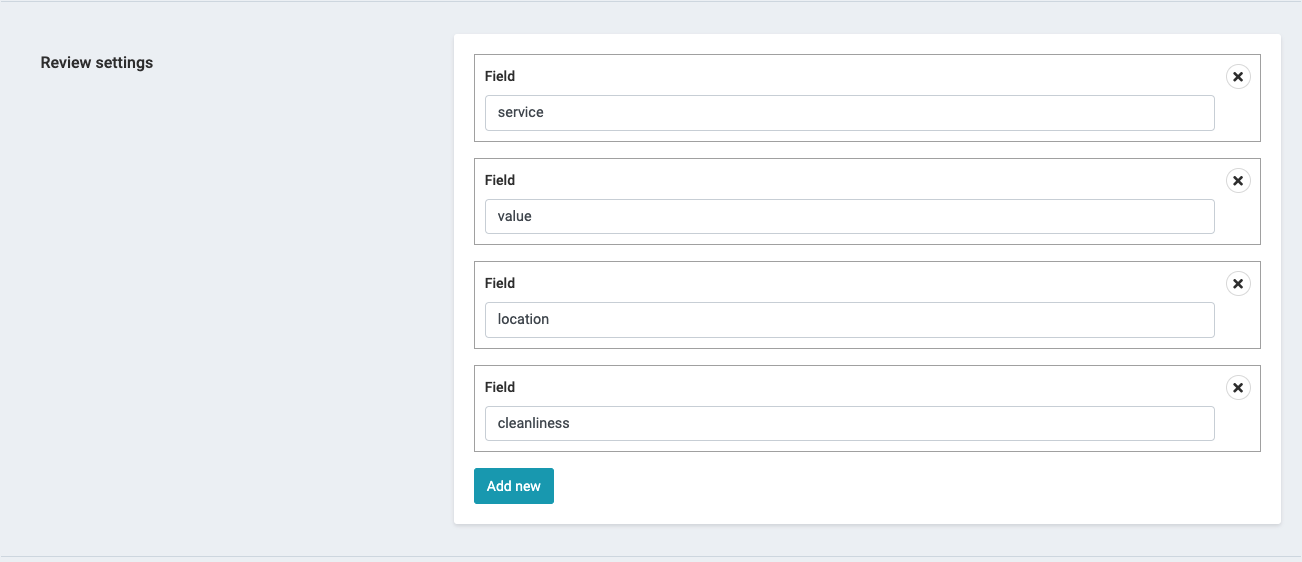
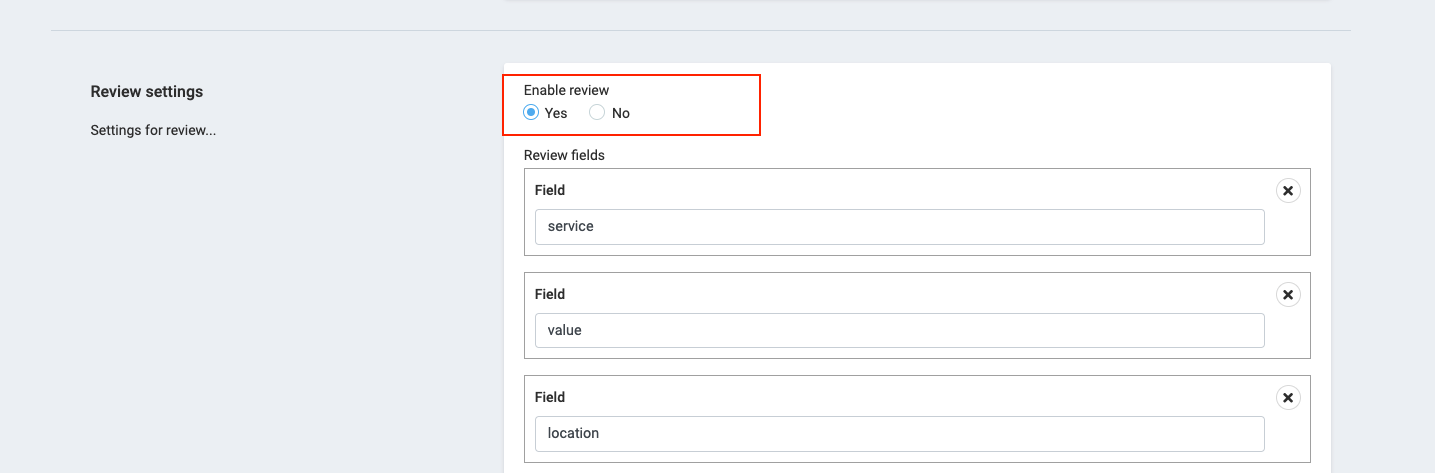
Update payment & social login

diff --git a/payment.md b/payment.md
@@ -1,0 +1,30 @@
+# Payment
+
+# Payment Methods
+
+> Setup payment methods for website
+
+![payment-1](_images/payment/payment-1.png)
+
+> Active payment
+
+![payment-2](_images/payment/payment-2.png)
+
+![payment-3](_images/payment/payment-3.png)
+
+# Payment Frontend
+
+> Payment methods activated
+
+![payment-4](_images/payment/payment-4.png)
+
+# Payment Transactions
+
+> Manage transactions
+
+
+![payment-5](_images/payment/payment-5.png)
+
+> View & Update transaction
+
+![payment-6](_images/payment/payment-6.png)

diff --git a/_sidebar.md b/_sidebar.md
@@ -14,9 +14,11 @@
   - [Footer](footer.md)
   - [Custom CSS & JS](cssjs.md)
   - [Translate](translate.md)
+  - [Payment](payment.md)
   - [Short code](shortcode.md)
   - [Config Real Estate](config-real-estate.md)
   - [Config](config.md)
 - Available plugins
   - [Analytics](plugin-analytics.md)
   - [Backup](plugin-backup.md)
+  - [Social Login](plugin-social-login.md)

diff --git a/plugin-social-login.md b/plugin-social-login.md
@@ -1,0 +1,13 @@
+# Social Login
+
+> Easier and faster login with Facebook, LinkedIn
+
+![social-login-1](_images/social-login/social-login-1.png)
+
+> Setting
+
+![social-login-1](_images/social-login/social-login-2.png)
+
+> Frontend
+
+![social-login-1](_images/social-login/social-login-3.png)

diff --git a/config.md b/config.md
@@ -1,5 +1,13 @@
 # Config
 
+## Language
+
+> Go to __Admin -> Setting -> General__.
+
+Setting Language & Front site language direction
+
+![language](_images/setting/language.png)
+
 ## Setting Email
 
 > Go to __Admin -> Setting -> Email__.

diff --git a/config-real-estate.md b/config-real-estate.md
@@ -25,6 +25,10 @@
 
 ## Review settings
 
-> Settings for review
+> Enable review
+
+![setting 6](_images/setting-real-estate/setting-6.png)
+
+> Settings Review fields
 
 ![setting 5](_images/setting-real-estate/setting-5.png)
